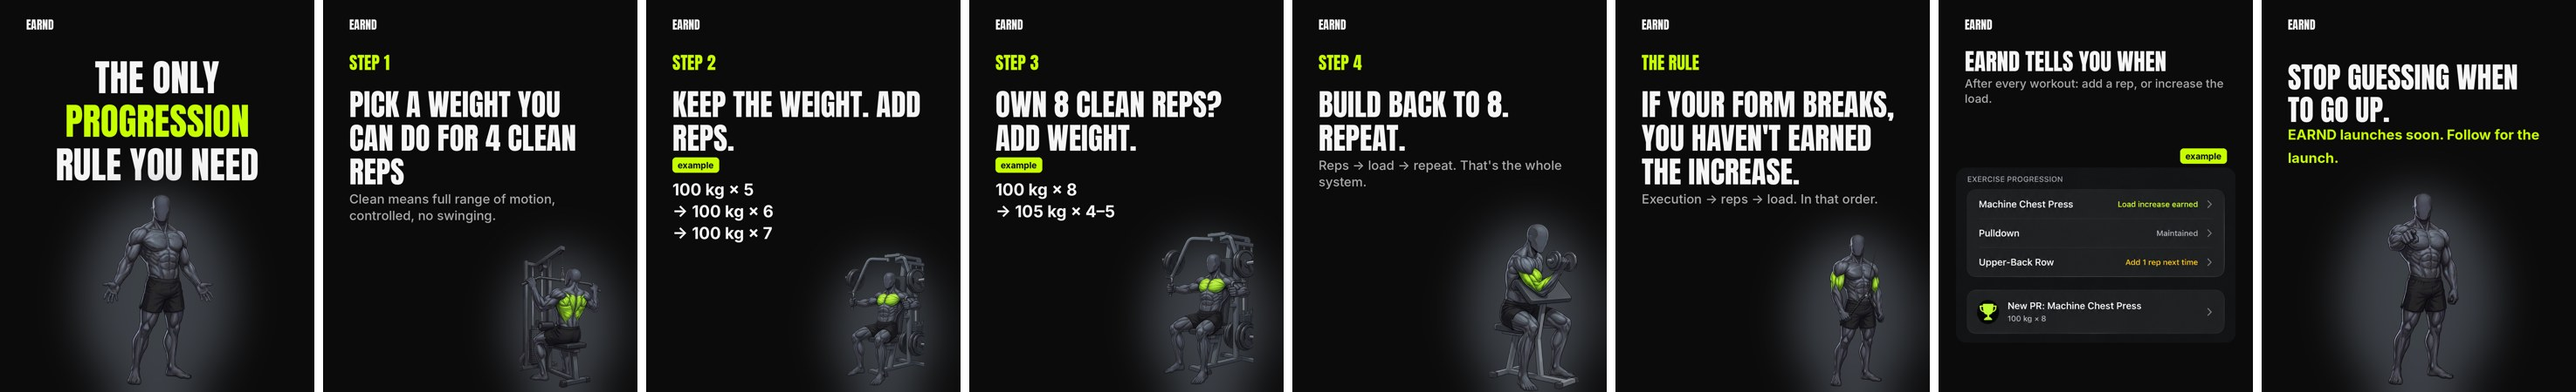
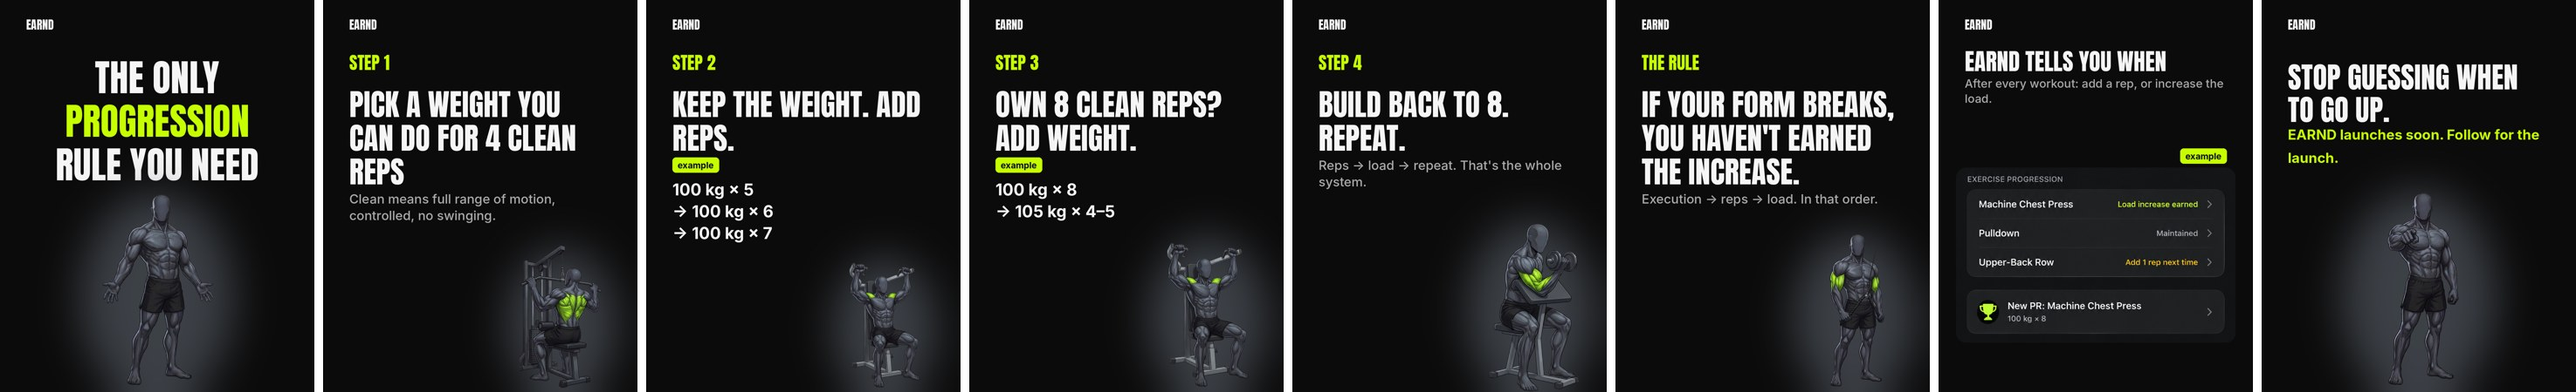
Hold upper/lower day sets (bad poses); swap chest-press pose; add back + why-2-sets drafts
Claude-Session: https://claude.ai/code/session_01Ws8S991F2EukoMgPY9duxg

Changed region(s): [[0.4366, 0.5911, 0.499, 0.9644], [0.3119, 0.6533, 0.3742, 0.9644]]

diff --git a/01-app/brand/mascot-pose-prompts.md b/01-app/brand/mascot-pose-prompts.md
@@ -1,5 +1,7 @@
 # Mascot pose pack: prompts for higgsfield.ai
 
+> **TO REDO (founder, 2026-10-30):** `chest-press` shows a pec-deck fly movement and `leg-curl` shows a leg extension. Regenerate both, then re-render every set using them (`grep -l '"chest-press"\|"leg-curl"' 04-sets/*/edu.json`). Until then, don't use these two poses in new sets.
+>
 > **POSES DONE (2026-10-29, generated via MCP from `mascot-final-matte-reference.jpg`):** `01-app/brand/poses/` contains chest-press, pulldown, preacher-curl, triceps-pushdown and cover-arms-open (+ `-cutout.png`). Use them in `edu.json` slides with `"pose": "<name>"`. The default mascot is cover-arms-open. Also done: hammer-curl, overhead-triceps-extension, lateral-raise, chest-supported-row, hack-squat, hip-thrust, romanian-deadlift, thinking, pointing. Plus calf-press, leg-curl, leg-extension, adductor, shoulder-press, pullover, shrug, pec-deck, bayesian-curl: **23 poses, covering every exercise in `01-app/programme.md`**. Known flaw: on leg-curl and adductor the lime covers more of the thigh than the target muscle.
 >
 > **FINAL MASCOT (2026-10-29):** now with matte skin: `mascot-final-matte-reference.jpg`. `01-app/brand/mascot-final-reference.jpg` (cutout: `mascot-final-cutout.png`). Graphite skin, clean comic-anatomy muscle separation, no bands, lime only on the worked muscle. **Use this prefix for every pose (1K, count 2):**

diff --git a/04-sets/2026-10-30-edu-complete-back/slides.md b/04-sets/2026-10-30-edu-complete-back/slides.md
@@ -1,0 +1,20 @@
+# 2026-10-30-edu-complete-back
+
+> Draft, awaiting gate 3 (zip sent 2026-10-30 for later posting). **dark** look, 1080×1350.
+
+- **Account:** @earndapp
+- **Angle:** build a complete back with the 4 back exercises in EARND's programme (width, stretch, thickness, traps) → grid → app
+- **Caption:** 4 exercises. width, thickness, traps. save it for back day
+- **Hashtags:** #backday #backworkout #upperlower #gymtips #musclebuildingtips
+- **AI label:** ON (mascot)
+
+| # | Type | Text |
+|---|---|---|
+| 1 | cover | BUILD A / COMPLETE BACK / WITH 4 EXERCISES |
+| 2 | exercise | #1 · PULLDOWN · Lats: width · 2 × 4–8 · Drive your elbows down to your sides. |
+| 3 | exercise | #2 · CABLE PULLOVER · Lats: stretch · 2 × 4–8 · Arms long. Pull the bar down in an arc to your thighs. |
+| 4 | exercise | #3 · CHEST-SUPPORTED ROW · Upper back: thickness · 2 × 4–8 · Chest stays on the pad. Pull your elbows back. |
+| 5 | exercise | #4 · SHRUG · Upper traps · 2 × 4–8 · Straight up, pause at the top, no rolling. |
+| 6 | cards | THE FULL BACK · 2 × 4–8 each · Pulldown, Cable Pullover, Chest-Supported Row, Shrug |
+| 7 | app | EARND SHOWS WHAT TO BEAT ON EVERY ONE · Last session and today's target, on every set. |
+| 8 | cta | SAVE THIS FOR BACK DAY. · EARND launches soon. Follow for the launch. |

diff --git a/04-sets/2026-10-30-ezyxbt-edu-why-2-sets/slides.md b/04-sets/2026-10-30-ezyxbt-edu-why-2-sets/slides.md
@@ -1,0 +1,18 @@
+# 2026-10-30-ezyxbt-edu-why-2-sets
+
+> Draft, awaiting gate 3 (zip sent 2026-10-30 for later posting). **light** look, 1080×1350.
+
+- **Account:** @ezyxbt
+- **Angle:** founder explains why his programme uses 2 working sets per exercise (first person; confirm at approval)
+- **Caption:** why i only do 2 working sets
+- **Hashtags:** #gymtips #progressiveoverload #strengthtraining #upperlower
+- **AI label:** not needed
+
+| # | Type | Text |
+|---|---|---|
+| 1 | cover | WHY I ONLY DO / 2 WORKING SETS |
+| 2 | steps | REASON 1 · EVERY WORKING SET HAS TO COUNT. · two hard sets over four half-hearted ones. |
+| 3 | steps | REASON 2 · SESSIONS STAY SHORT. · 6 exercises × 2 sets = 12 working sets. done. |
+| 4 | steps | REASON 3 · I CAN RECOVER AND TRAIN 4 DAYS A WEEK. · upper, lower, rest, upper, lower. |
+| 5 | steps | THE GOAL · BEAT LAST TIME. · add a rep. own 8 clean reps, then add weight. |
+| 6 | cta | 2 SETS. DONE PROPERLY. · i'm building EARND. follow @earndapp for the launch. |

diff --git a/04-sets/2026-10-30-edu-complete-back/posting.md b/04-sets/2026-10-30-edu-complete-back/posting.md
@@ -1,0 +1,10 @@
+# Posting pack: 2026-10-30-edu-complete-back
+
+**Status: draft. Confirm in chat before posting.**
+
+- **Account:** @earndapp (TikTok, photo mode)
+- **Upload, in order:** `final/preview/slide-01.jpg` … `slide-08.jpg`
+- **Caption:** 4 exercises. width, thickness, traps. save it for back day #backday #backworkout #upperlower #gymtips #musclebuildingtips
+- **Sound:** any trending sound
+- **AI-generated content label:** **TURN ON** (mascot is generated)
+- **Before posting:** no download link (prelaunch).

diff --git a/04-sets/2026-10-30-edu-perfect-upper-day/posting.md b/04-sets/2026-10-30-edu-perfect-upper-day/posting.md
@@ -1,6 +1,6 @@
 # Posting pack: 2026-10-30-edu-perfect-upper-day
 
-**Status: approved at gate 3 on 2026-10-29. Post manually from 2026-10-30.** Look: **light**.
+**ON HOLD (2026-10-30): do not post until the chest-press / leg-curl pose is regenerated.** Previously: approved at gate 3 on 2026-10-29. Post manually from 2026-10-30.** Look: **light**.
 
 - **Account:** @earndapp (TikTok, photo mode)
 - **Upload, in order:** `final/preview/slide-01.jpg` … `slide-10.jpg` (1080×1350, text already on the slides)

diff --git a/04-sets/2026-10-30-edu-perfect-lower-day/posting.md b/04-sets/2026-10-30-edu-perfect-lower-day/posting.md
@@ -1,6 +1,6 @@
 # Posting pack: 2026-10-30-edu-perfect-lower-day
 
-**Status: approved at gate 3 on 2026-10-29. Post manually from 2026-10-30.** Look: **dark**.
+**ON HOLD (2026-10-30): do not post until the chest-press / leg-curl pose is regenerated.** Previously: approved at gate 3 on 2026-10-29. Post manually from 2026-10-30.** Look: **dark**.
 
 - **Account:** @earndapp (TikTok, photo mode)
 - **Upload, in order:** `final/preview/slide-01.jpg` … `slide-09.jpg` (1080×1350, text already on the slides)

diff --git a/04-sets/2026-10-30-ezyxbt-edu-why-2-sets/posting.md b/04-sets/2026-10-30-ezyxbt-edu-why-2-sets/posting.md
@@ -1,0 +1,10 @@
+# Posting pack: 2026-10-30-ezyxbt-edu-why-2-sets
+
+**Status: draft. Confirm in chat before posting.**
+
+- **Account:** @ezyxbt (TikTok, photo mode)
+- **Upload, in order:** `final/preview/slide-01.jpg` … `slide-06.jpg`
+- **Caption:** why i only do 2 working sets #gymtips #progressiveoverload #strengthtraining #upperlower
+- **Sound:** any trending sound
+- **AI-generated content label:** not needed (real photos)
+- **Before posting:** no download link (prelaunch).
